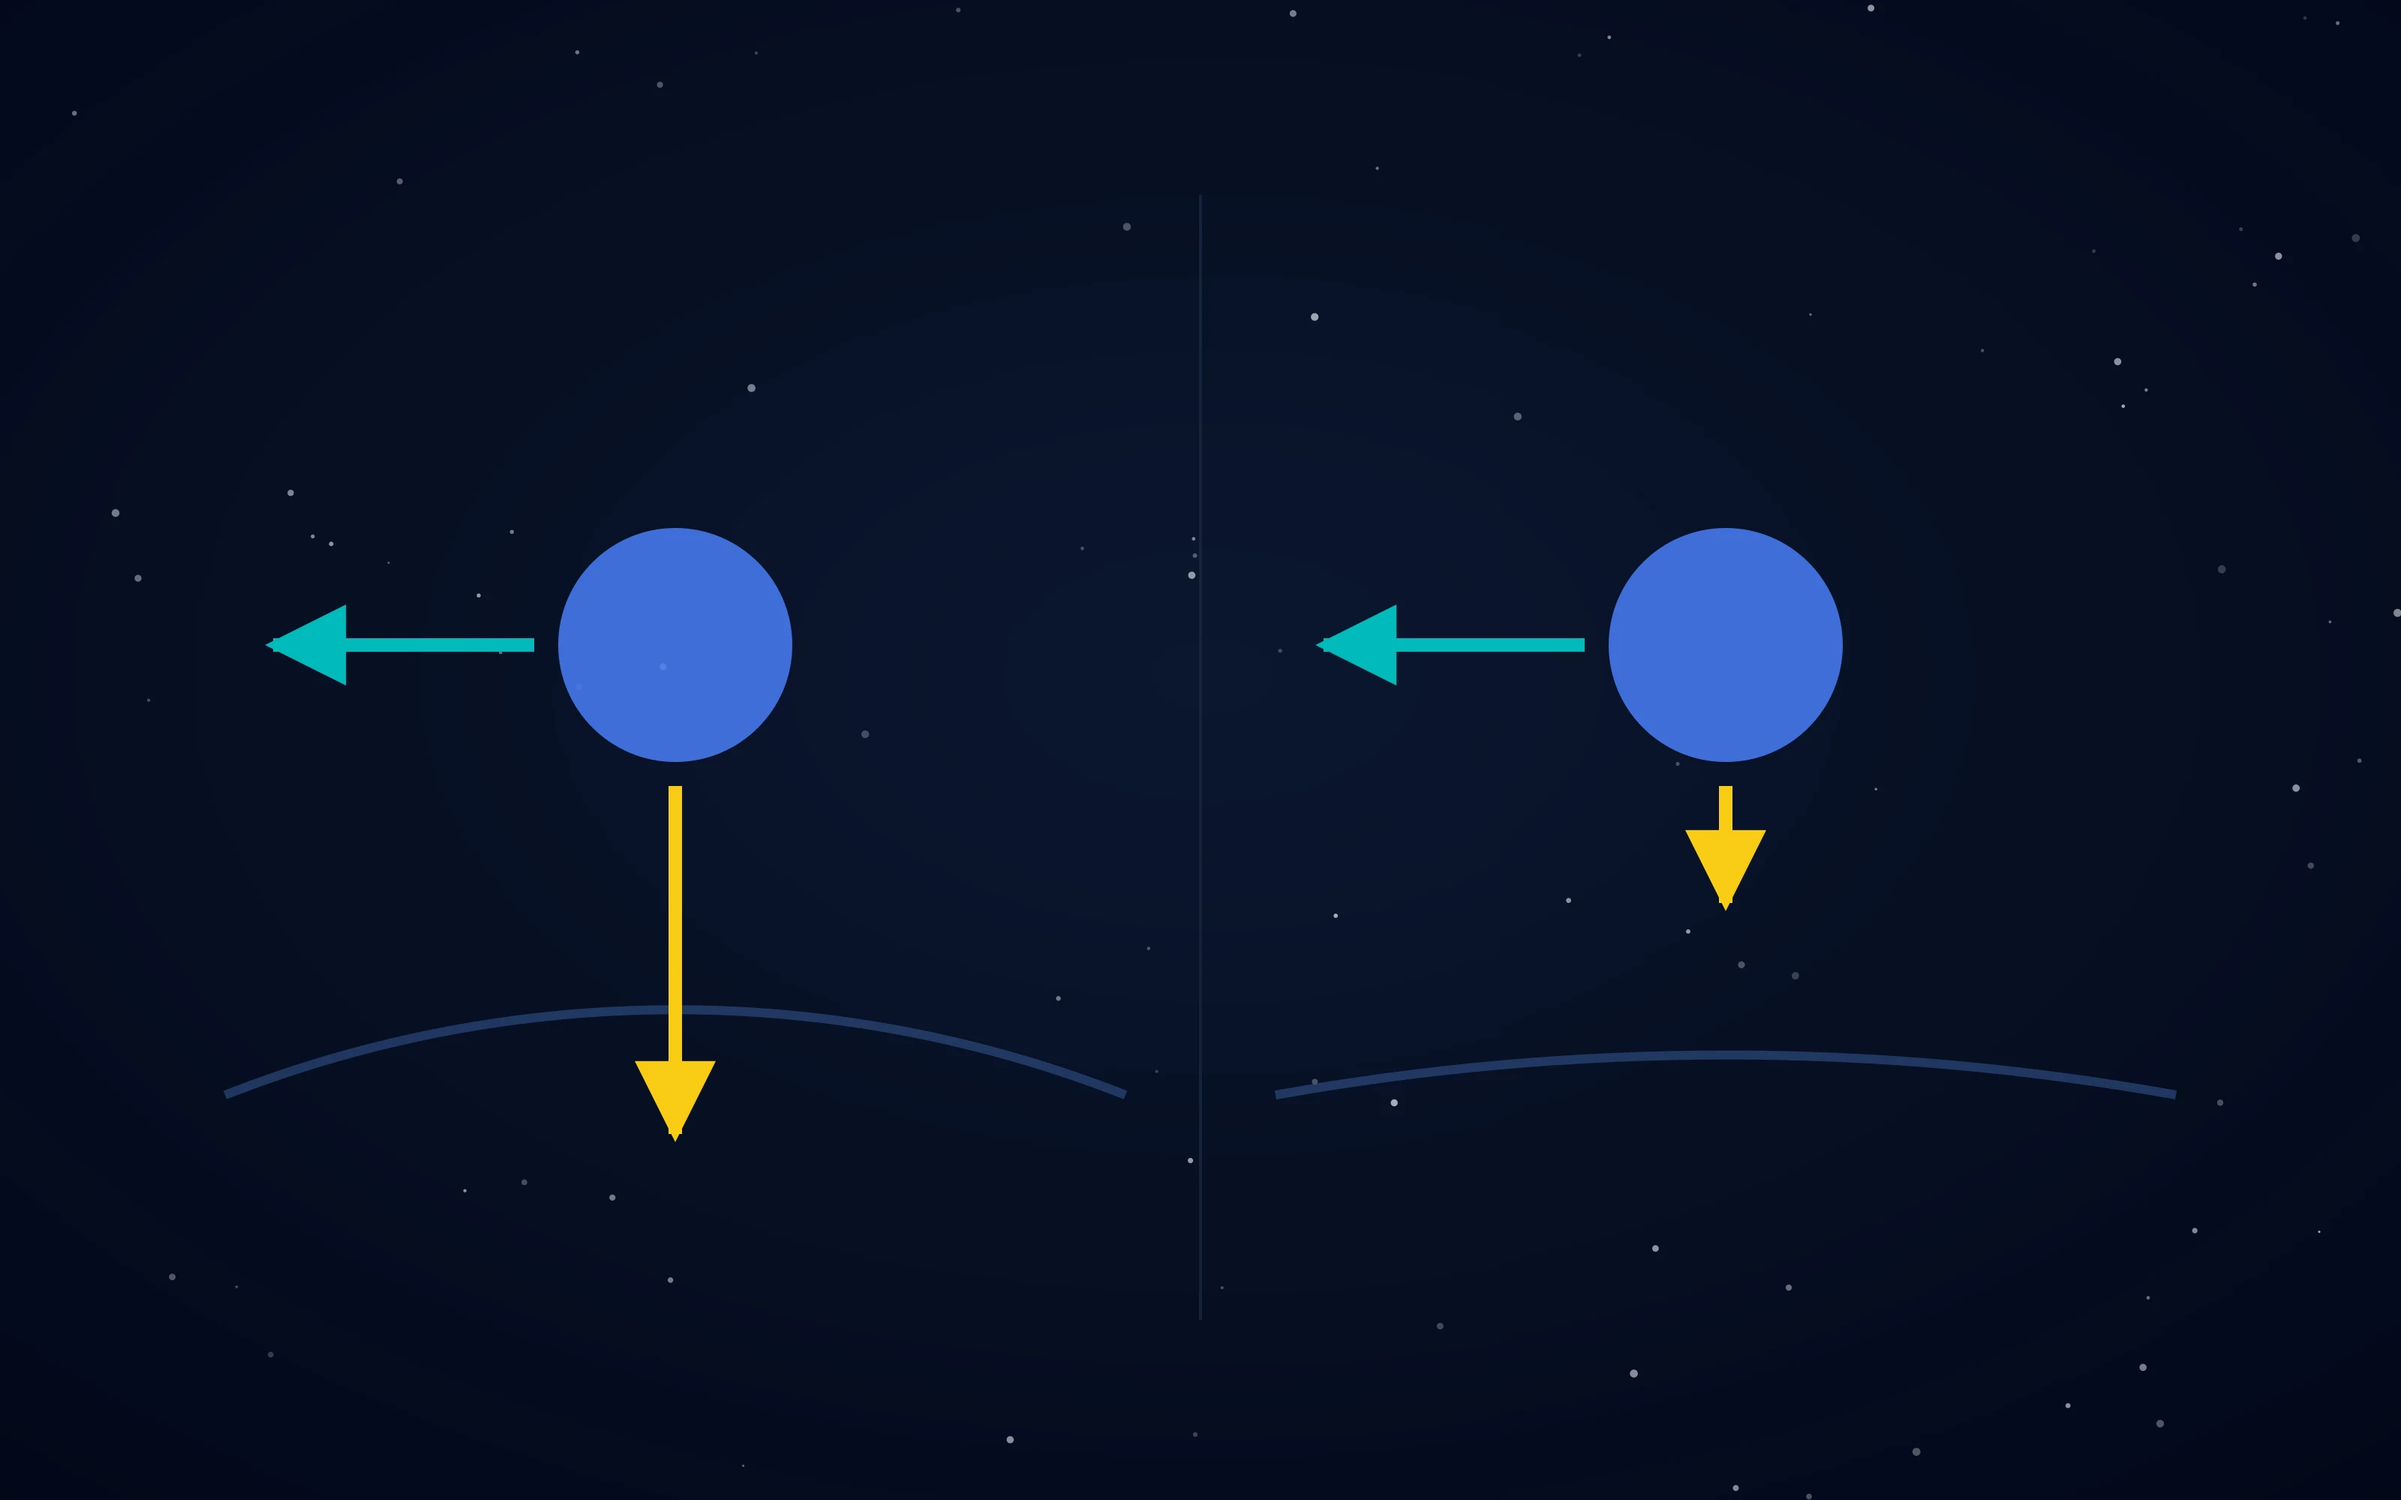
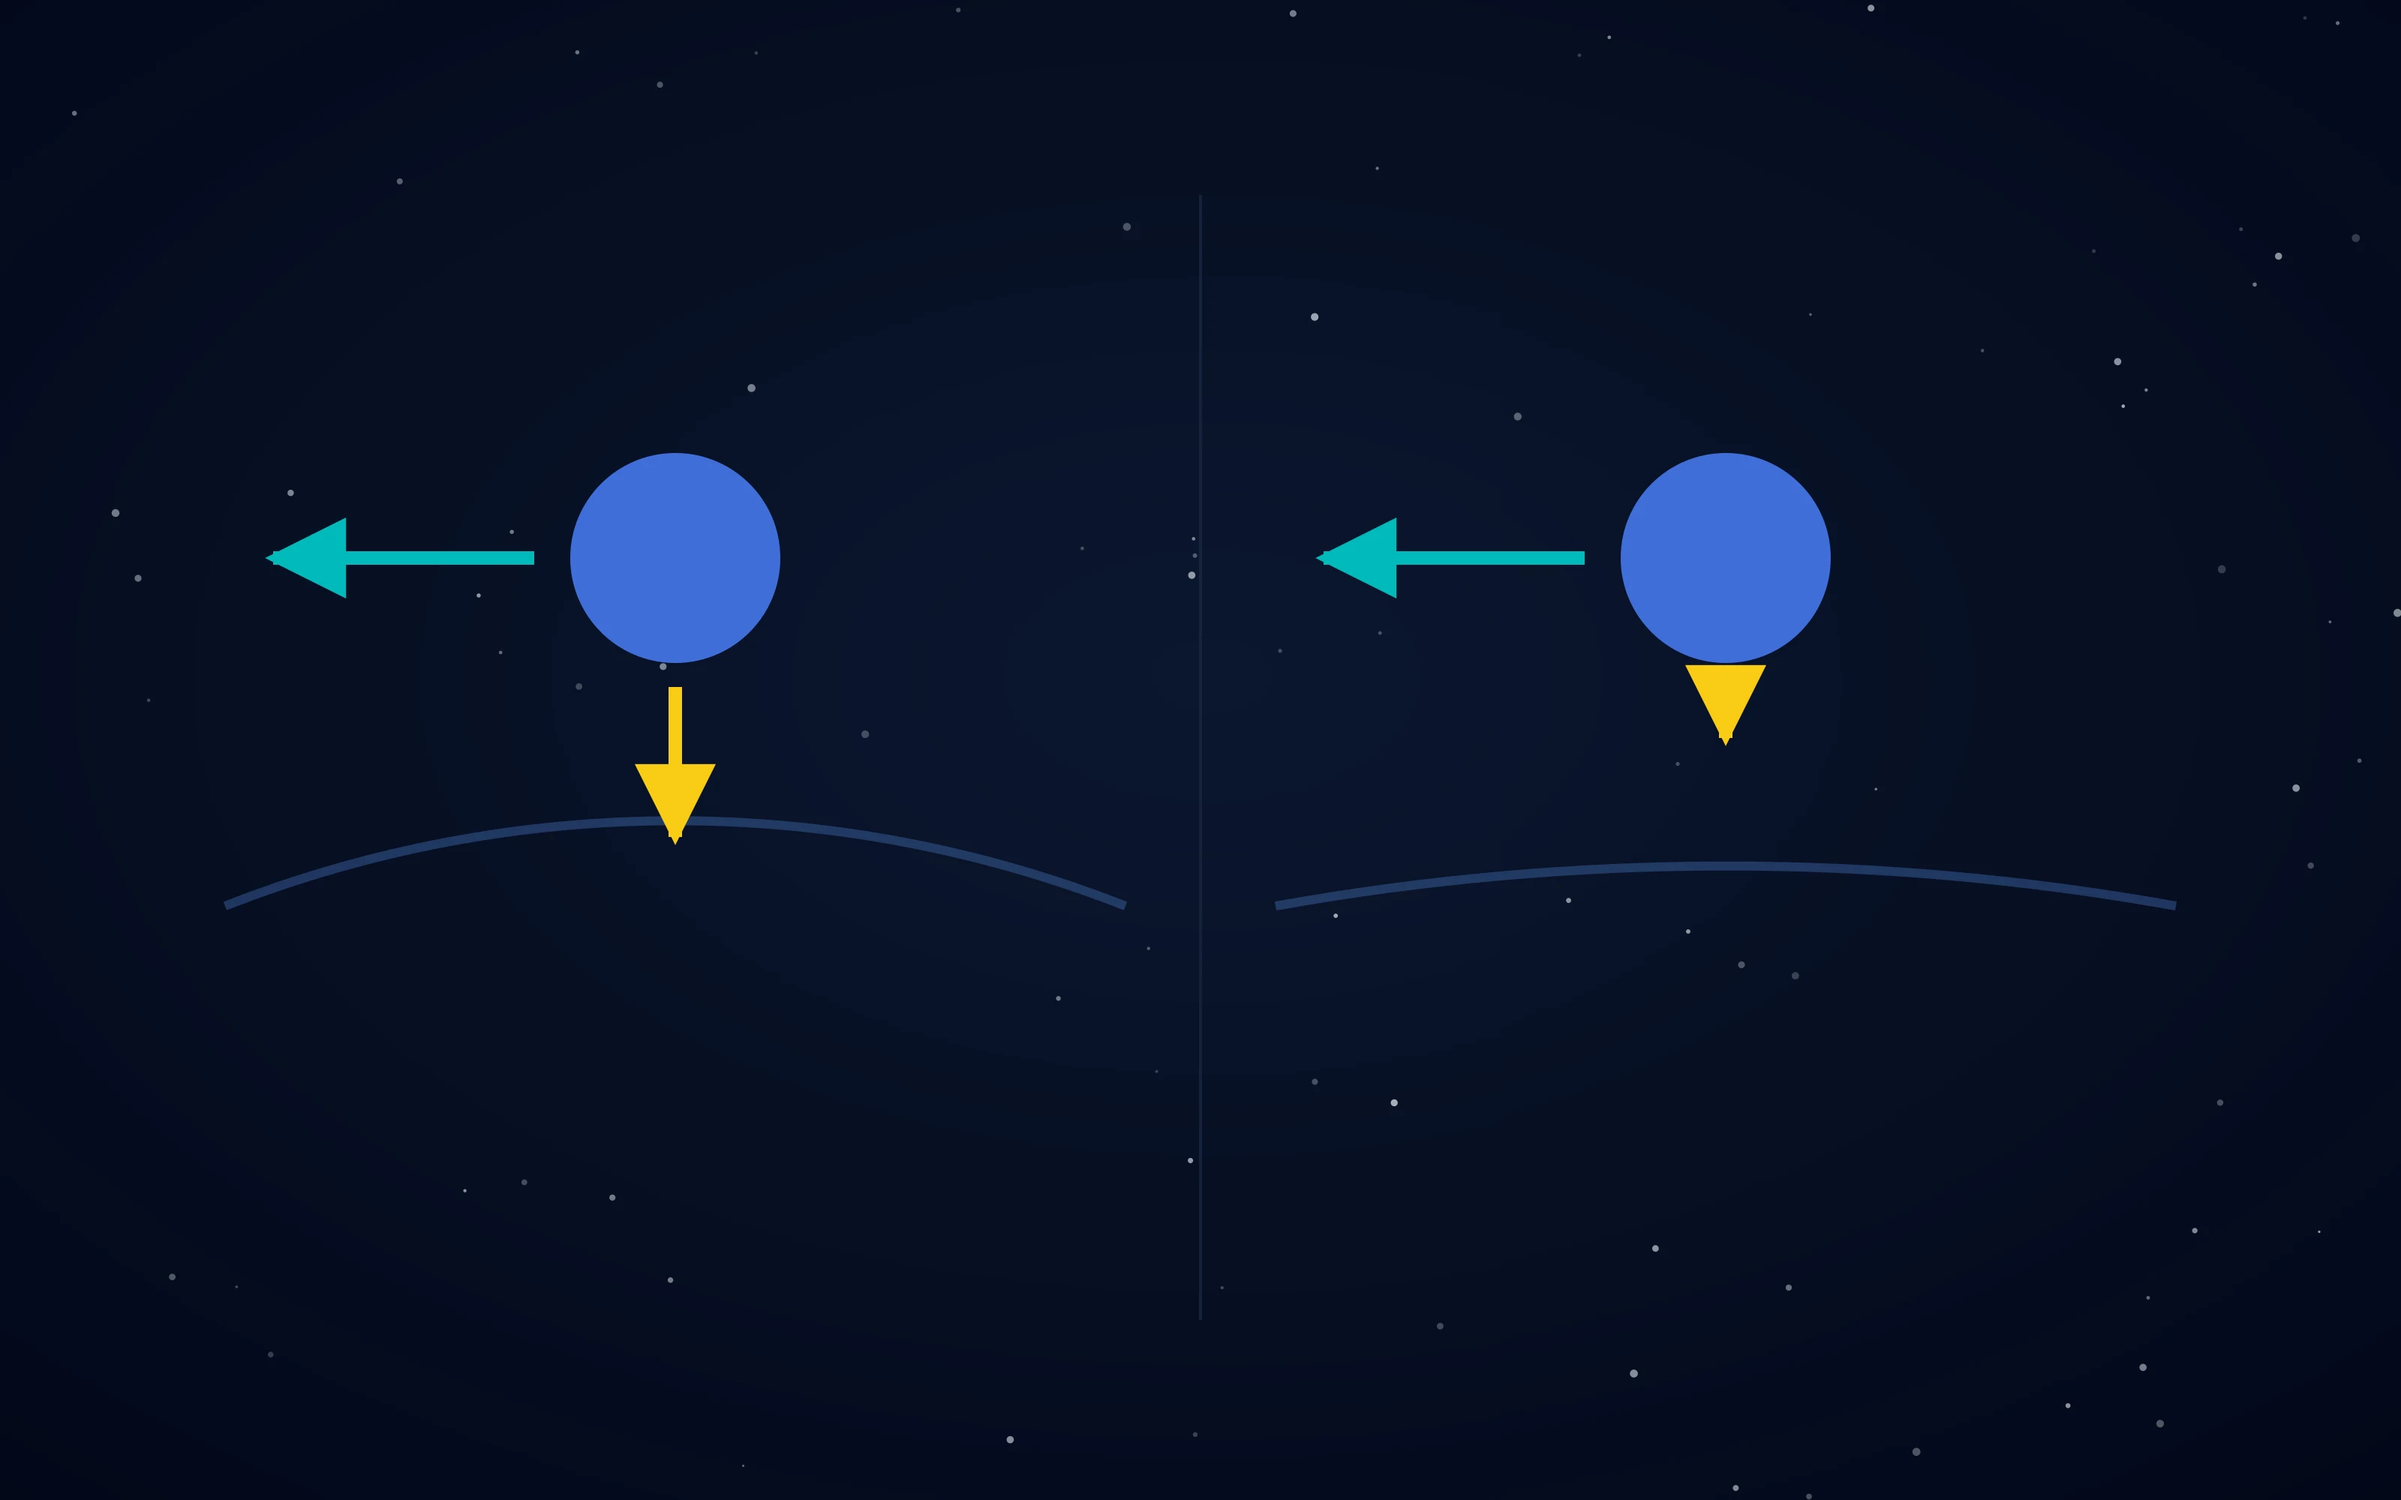
fix: ba ảnh bìa mất nội dung ở dải hero trên cửa sổ thấp
Nới khung hero vẫn chưa đủ. Trên cửa sổ cao 582 px thì min-h-[24rem]
thắng 58vh, dải lộ ra co về y 274–593 — đỉnh sóng ở y 260 vẫn nằm ngoài,
và bài song-buoc-song bị báo "thiếu" lần thứ ba.

Dải an toàn cho CẢ cửa sổ cao lẫn thấp là y 300–560. Đó là ràng buộc
thật, và bản vẽ phải theo nó chứ không phải khung chạy theo bản vẽ:

- song-buoc-song: hạ biên độ 148 -> 95, dời trục 408 -> 430. Cả sóng,
  mũi tên bước sóng và mũi tên biên độ đều lọt.
- thuyet-tuong-doi-hep: kéo hai gương từ 262/640 vào 330/538. Trước đó
  hero chỉ còn mấy nét đứt vì gương bị cắt sạch — hình mất hẳn nghĩa.
- khoi-luong-quan-tinh-va-trong-luong: nâng quả cầu và rút mũi tên trọng
  lượng. Trước đó hero cắt mất cả hai mũi tên vàng, tức cắt đúng cái ý
  "trọng lượng đổi còn quán tính thì không".

Đã dựng bảng đối chiếu cả 12 ảnh ở đúng dải hero của cửa sổ thấp để tìm
ra ba cái này, thay vì sửa từng cái theo báo lỗi.

diff --git a/sciencepedia/scripts/build-covers.ts b/sciencepedia/scripts/build-covers.ts
@@ -283,8 +283,8 @@ function atom(): string {
    không gian ngay trên đường sóng, và đặt một sóng tần số gấp đôi phía dưới
    để tần số trở thành thứ SO SÁNH ĐƯỢC chứ không phải một chữ. */
 function wave(): string {
-  const axis = 408;
-  const amp = 148;
+  const axis = 430;
+  const amp = 95;
   const left = 150;
   const right = 1450;
   const lambda = (right - left) / 3;
@@ -318,17 +318,17 @@ function wave(): string {
   // Sóng chính: biên độ lớn, một bước sóng được đo tường minh.
   const main = `<path d="${path(amp, 1, axis)}" fill="none" stroke="${YELLOW}" stroke-width="9" stroke-linecap="round"/>`;
   // Sóng dưới: cùng biên độ nhỏ hơn, tần số gấp đôi — cho mắt so sánh.
-  const second = `<path d="${path(84, 2, 762)}" fill="none" stroke="${TEAL}" stroke-width="6" stroke-linecap="round" opacity="0.9"/>`;
+  const second = `<path d="${path(58, 2, 648)}" fill="none" stroke="${TEAL}" stroke-width="6" stroke-linecap="round" opacity="0.9"/>`;
 
   const axes = `
     <line x1="70" y1="${axis}" x2="${W - 70}" y2="${axis}" stroke="${STAR}" stroke-width="2.5" opacity="0.75"/>
-    <line x1="70" y1="762" x2="${W - 70}" y2="762" stroke="${STAR}" stroke-width="2" opacity="0.4"/>`;
+    <line x1="70" y1="648" x2="${W - 70}" y2="648" stroke="${STAR}" stroke-width="2" opacity="0.4"/>`;
 
   // Bước sóng: đo từ đỉnh này tới đỉnh kế tiếp.
   const lam = `
-    <line x1="${crest1}" y1="${axis - amp}" x2="${crest1}" y2="${axis - amp - 88}" stroke="${STAR}" stroke-width="2" opacity="0.6" stroke-dasharray="8 8"/>
-    <line x1="${crest2}" y1="${axis - amp}" x2="${crest2}" y2="${axis - amp - 88}" stroke="${STAR}" stroke-width="2" opacity="0.6" stroke-dasharray="8 8"/>
-    <line x1="${crest1}" y1="${axis - amp - 62}" x2="${crest2}" y2="${axis - amp - 62}" stroke="${STAR}" stroke-width="3.5" marker-start="url(#b)" marker-end="url(#a)"/>`;
+    <line x1="${crest1}" y1="${axis - amp}" x2="${crest1}" y2="${axis - amp - 46}" stroke="${STAR}" stroke-width="2" opacity="0.6" stroke-dasharray="8 8"/>
+    <line x1="${crest2}" y1="${axis - amp}" x2="${crest2}" y2="${axis - amp - 46}" stroke="${STAR}" stroke-width="2" opacity="0.6" stroke-dasharray="8 8"/>
+    <line x1="${crest1}" y1="${axis - amp - 32}" x2="${crest2}" y2="${axis - amp - 32}" stroke="${STAR}" stroke-width="3.5" marker-start="url(#b)" marker-end="url(#a)"/>`;
 
   // Biên độ: từ trục lên đỉnh.
   const ampMark = `
@@ -500,8 +500,8 @@ function keplerLaws(): string {
 
 /* ─── Tương đối hẹp: đồng hồ ánh sáng, đứng yên và đang chuyển động ─── */
 function specialRelativity(): string {
-  const topY = 262;
-  const botY = 640;
+  const topY = 330;
+  const botY = 538;
 
   /* Cùng một đồng hồ, nhìn từ hai hệ quy chiếu. Đứng yên thì ánh sáng đi
      thẳng lên xuống; chuyển động thì nó đi đường zigzag DÀI HƠN. Tốc độ ánh
@@ -525,7 +525,7 @@ function specialRelativity(): string {
     `<path d="M${movingStart} ${botY} L${movingStart + step} ${topY} L${movingStart + step * 2} ${botY}"
        fill="none" stroke="${TEAL}" stroke-width="6" stroke-dasharray="18 14"/>
      <circle cx="${movingStart + step}" cy="${topY}" r="14" fill="${TEAL}"/>
-     <line x1="${movingStart - 130}" y1="${botY + 92}" x2="${movingStart + step * 2 + 60}" y2="${botY + 92}"
+     <line x1="${movingStart - 130}" y1="${botY + 46}" x2="${movingStart + step * 2 + 60}" y2="${botY + 46}"
        stroke="${STAR}" stroke-width="5" marker-end="url(#av)" opacity="0.8"/>`;
 
   return svg(
@@ -535,7 +535,7 @@ function specialRelativity(): string {
 
 /* ─── Khối lượng quán tính và trọng lượng: cùng vật, hai đại lượng khác nhau ─── */
 function massVsWeight(): string {
-  const y = 430;
+  const y = 372;
   const left = 450;
   const right = 1150;
 
@@ -543,18 +543,18 @@ function massVsWeight(): string {
      hành tinh. Mũi tên NGANG là lực cần để tăng tốc nó — nó KHÔNG đổi, vì
      khối lượng quán tính không phụ thuộc bạn đang đứng ở đâu. */
   const body = (x: number, weightLen: number, arcR: number, arcColor: string) => `
-    <path d="M${x - 300} ${y + 300} A ${arcR} ${arcR} 0 0 1 ${x + 300} ${y + 300}"
+    <path d="M${x - 300} ${y + 232} A ${arcR} ${arcR} 0 0 1 ${x + 300} ${y + 232}"
       fill="none" stroke="${arcColor}" stroke-width="6" opacity="0.5"/>
-    <circle cx="${x}" cy="${y}" r="78" fill="${BLUE}" opacity="0.85"/>
-    <line x1="${x}" y1="${y + 94}" x2="${x}" y2="${y + 94 + weightLen}" stroke="${YELLOW}" stroke-width="9" marker-end="url(#aw)"/>
+    <circle cx="${x}" cy="${y}" r="70" fill="${BLUE}" opacity="0.85"/>
+    <line x1="${x}" y1="${y + 86}" x2="${x}" y2="${y + 86 + weightLen}" stroke="${YELLOW}" stroke-width="9" marker-end="url(#aw)"/>
     <line x1="${x - 94}" y1="${y}" x2="${x - 268}" y2="${y}" stroke="${TEAL}" stroke-width="9" marker-end="url(#at)"/>`;
 
   return svg(
     backdrop(13) +
       `<defs>${arrowHead("aw", YELLOW)}${arrowHead("at", TEAL)}</defs>` +
       `<line x1="800" y1="130" x2="800" y2="880" stroke="${SPACE_700}" stroke-width="2" opacity="0.8"/>` +
-      body(left, 232, 820, "#3a5f9e") +
-      body(right, 78, 1700, "#3a5f9e"),
+      body(left, 100, 820, "#3a5f9e") +
+      body(right, 34, 1700, "#3a5f9e"),
   );
 }
 
